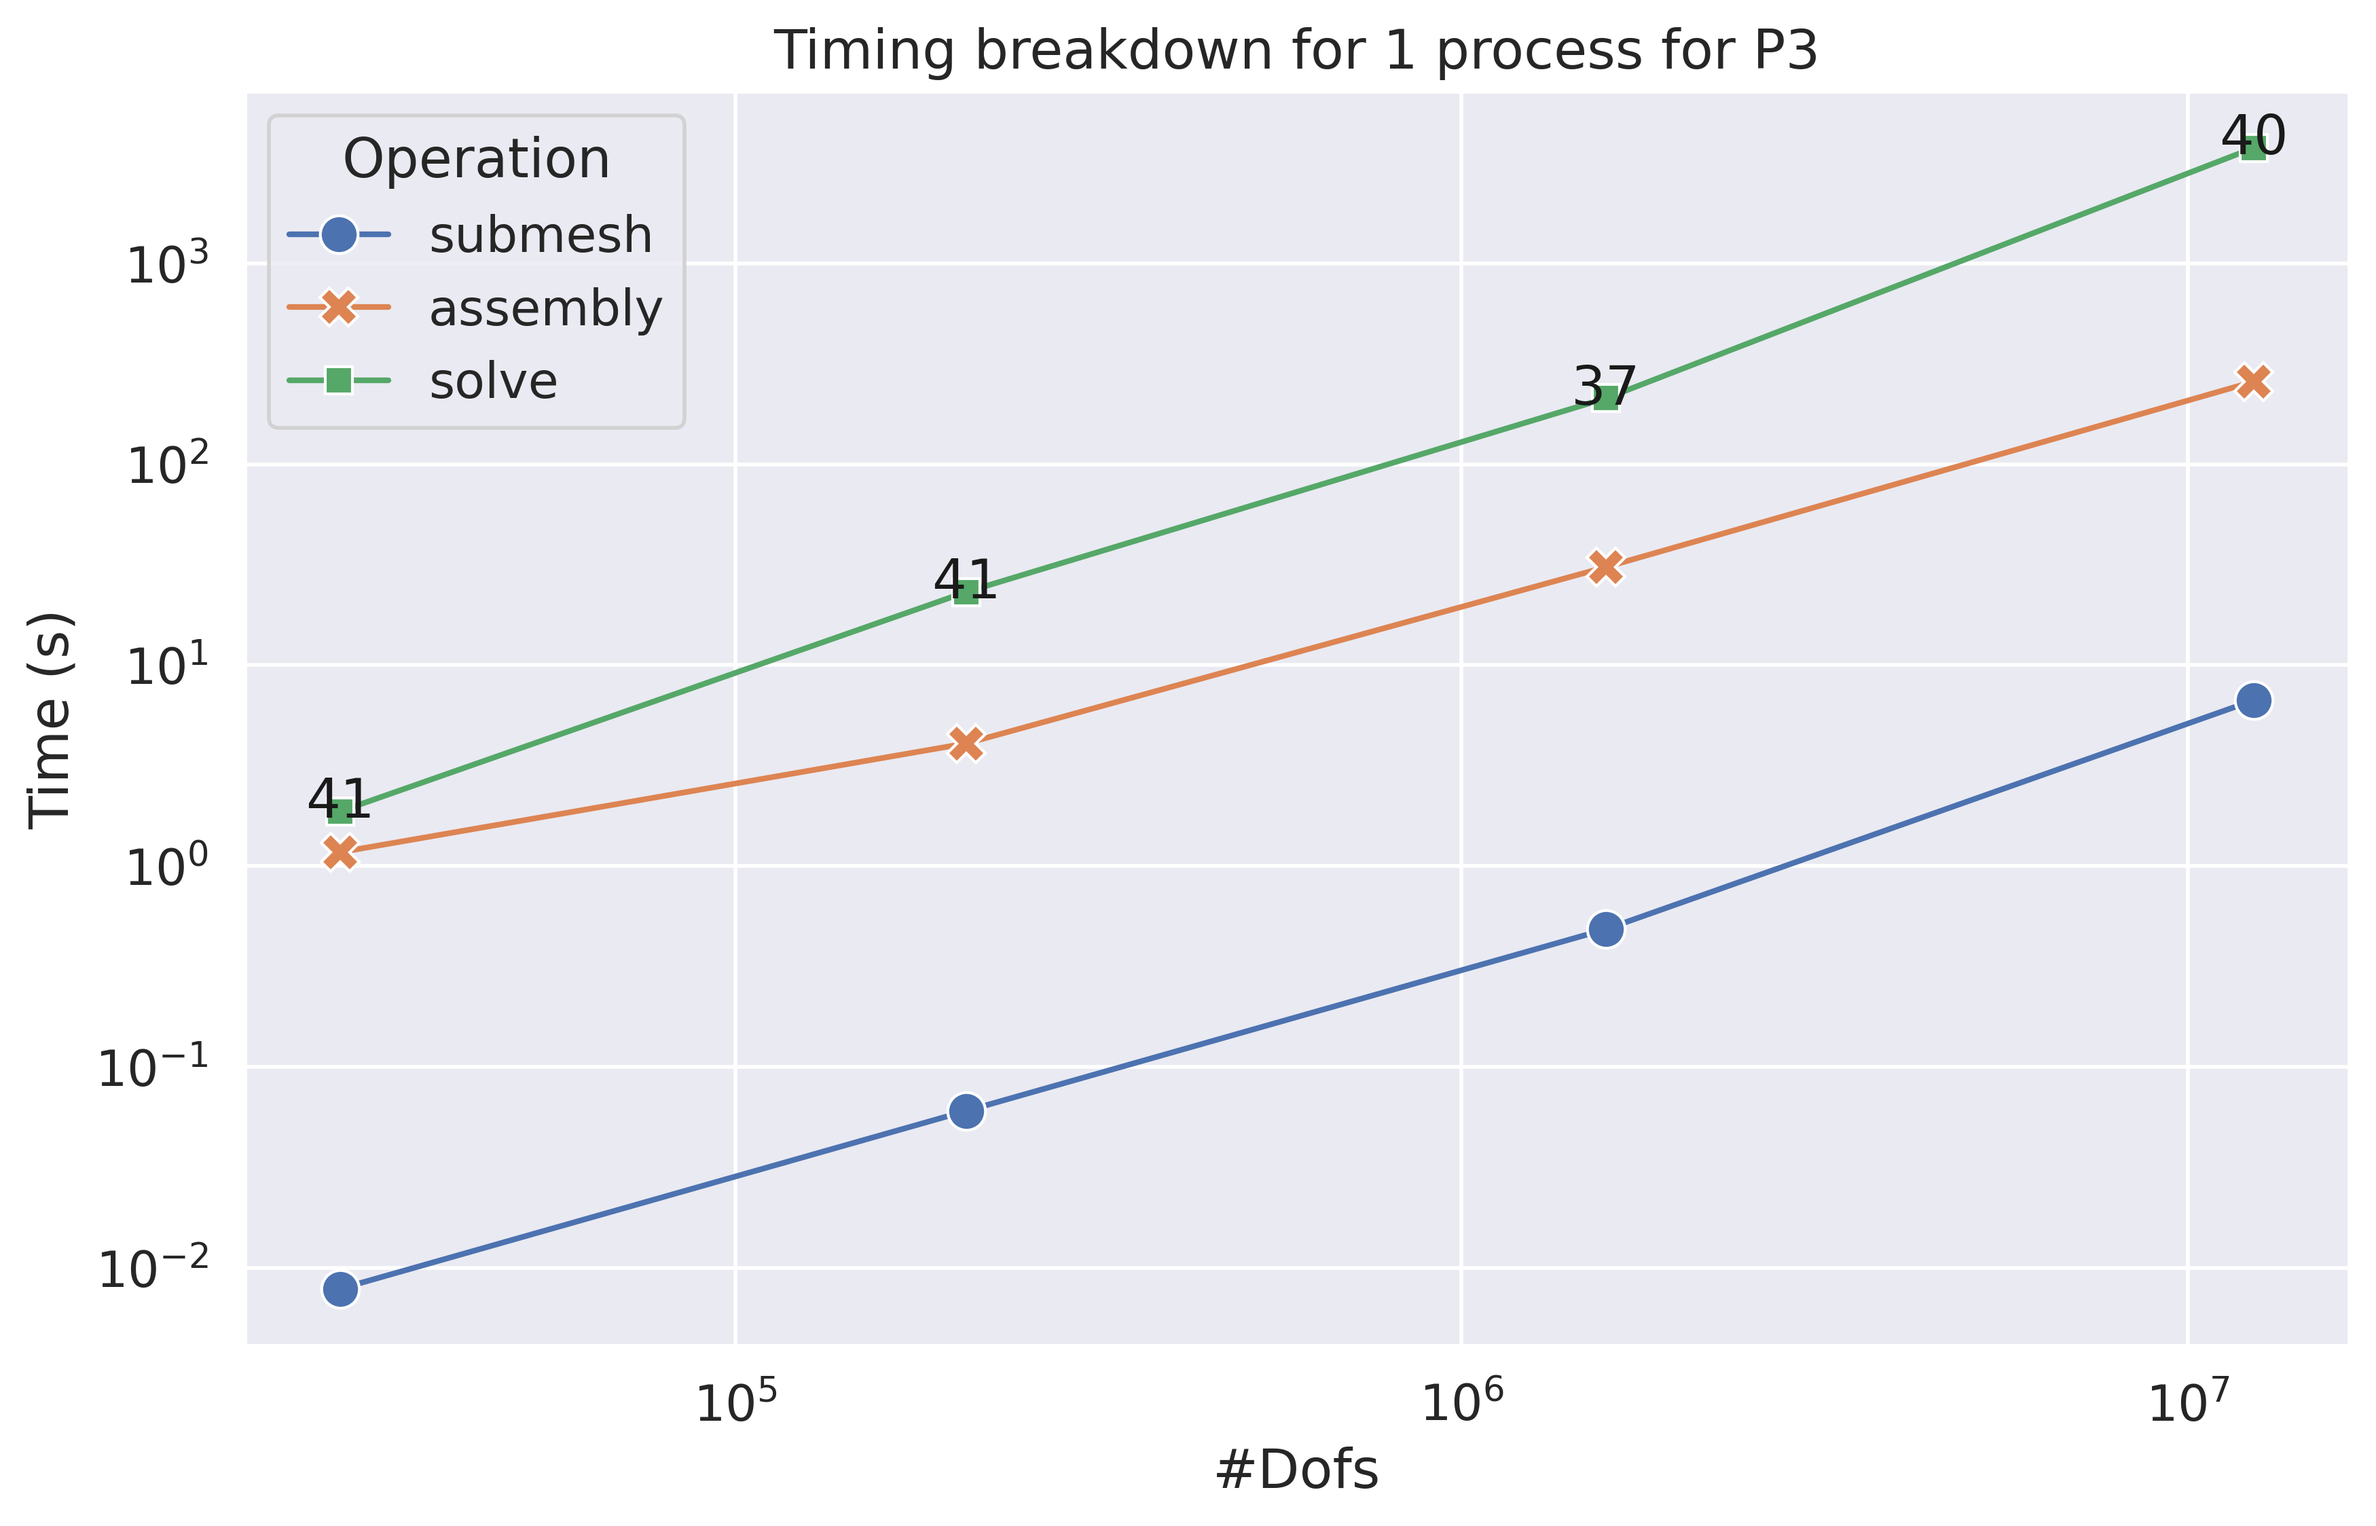
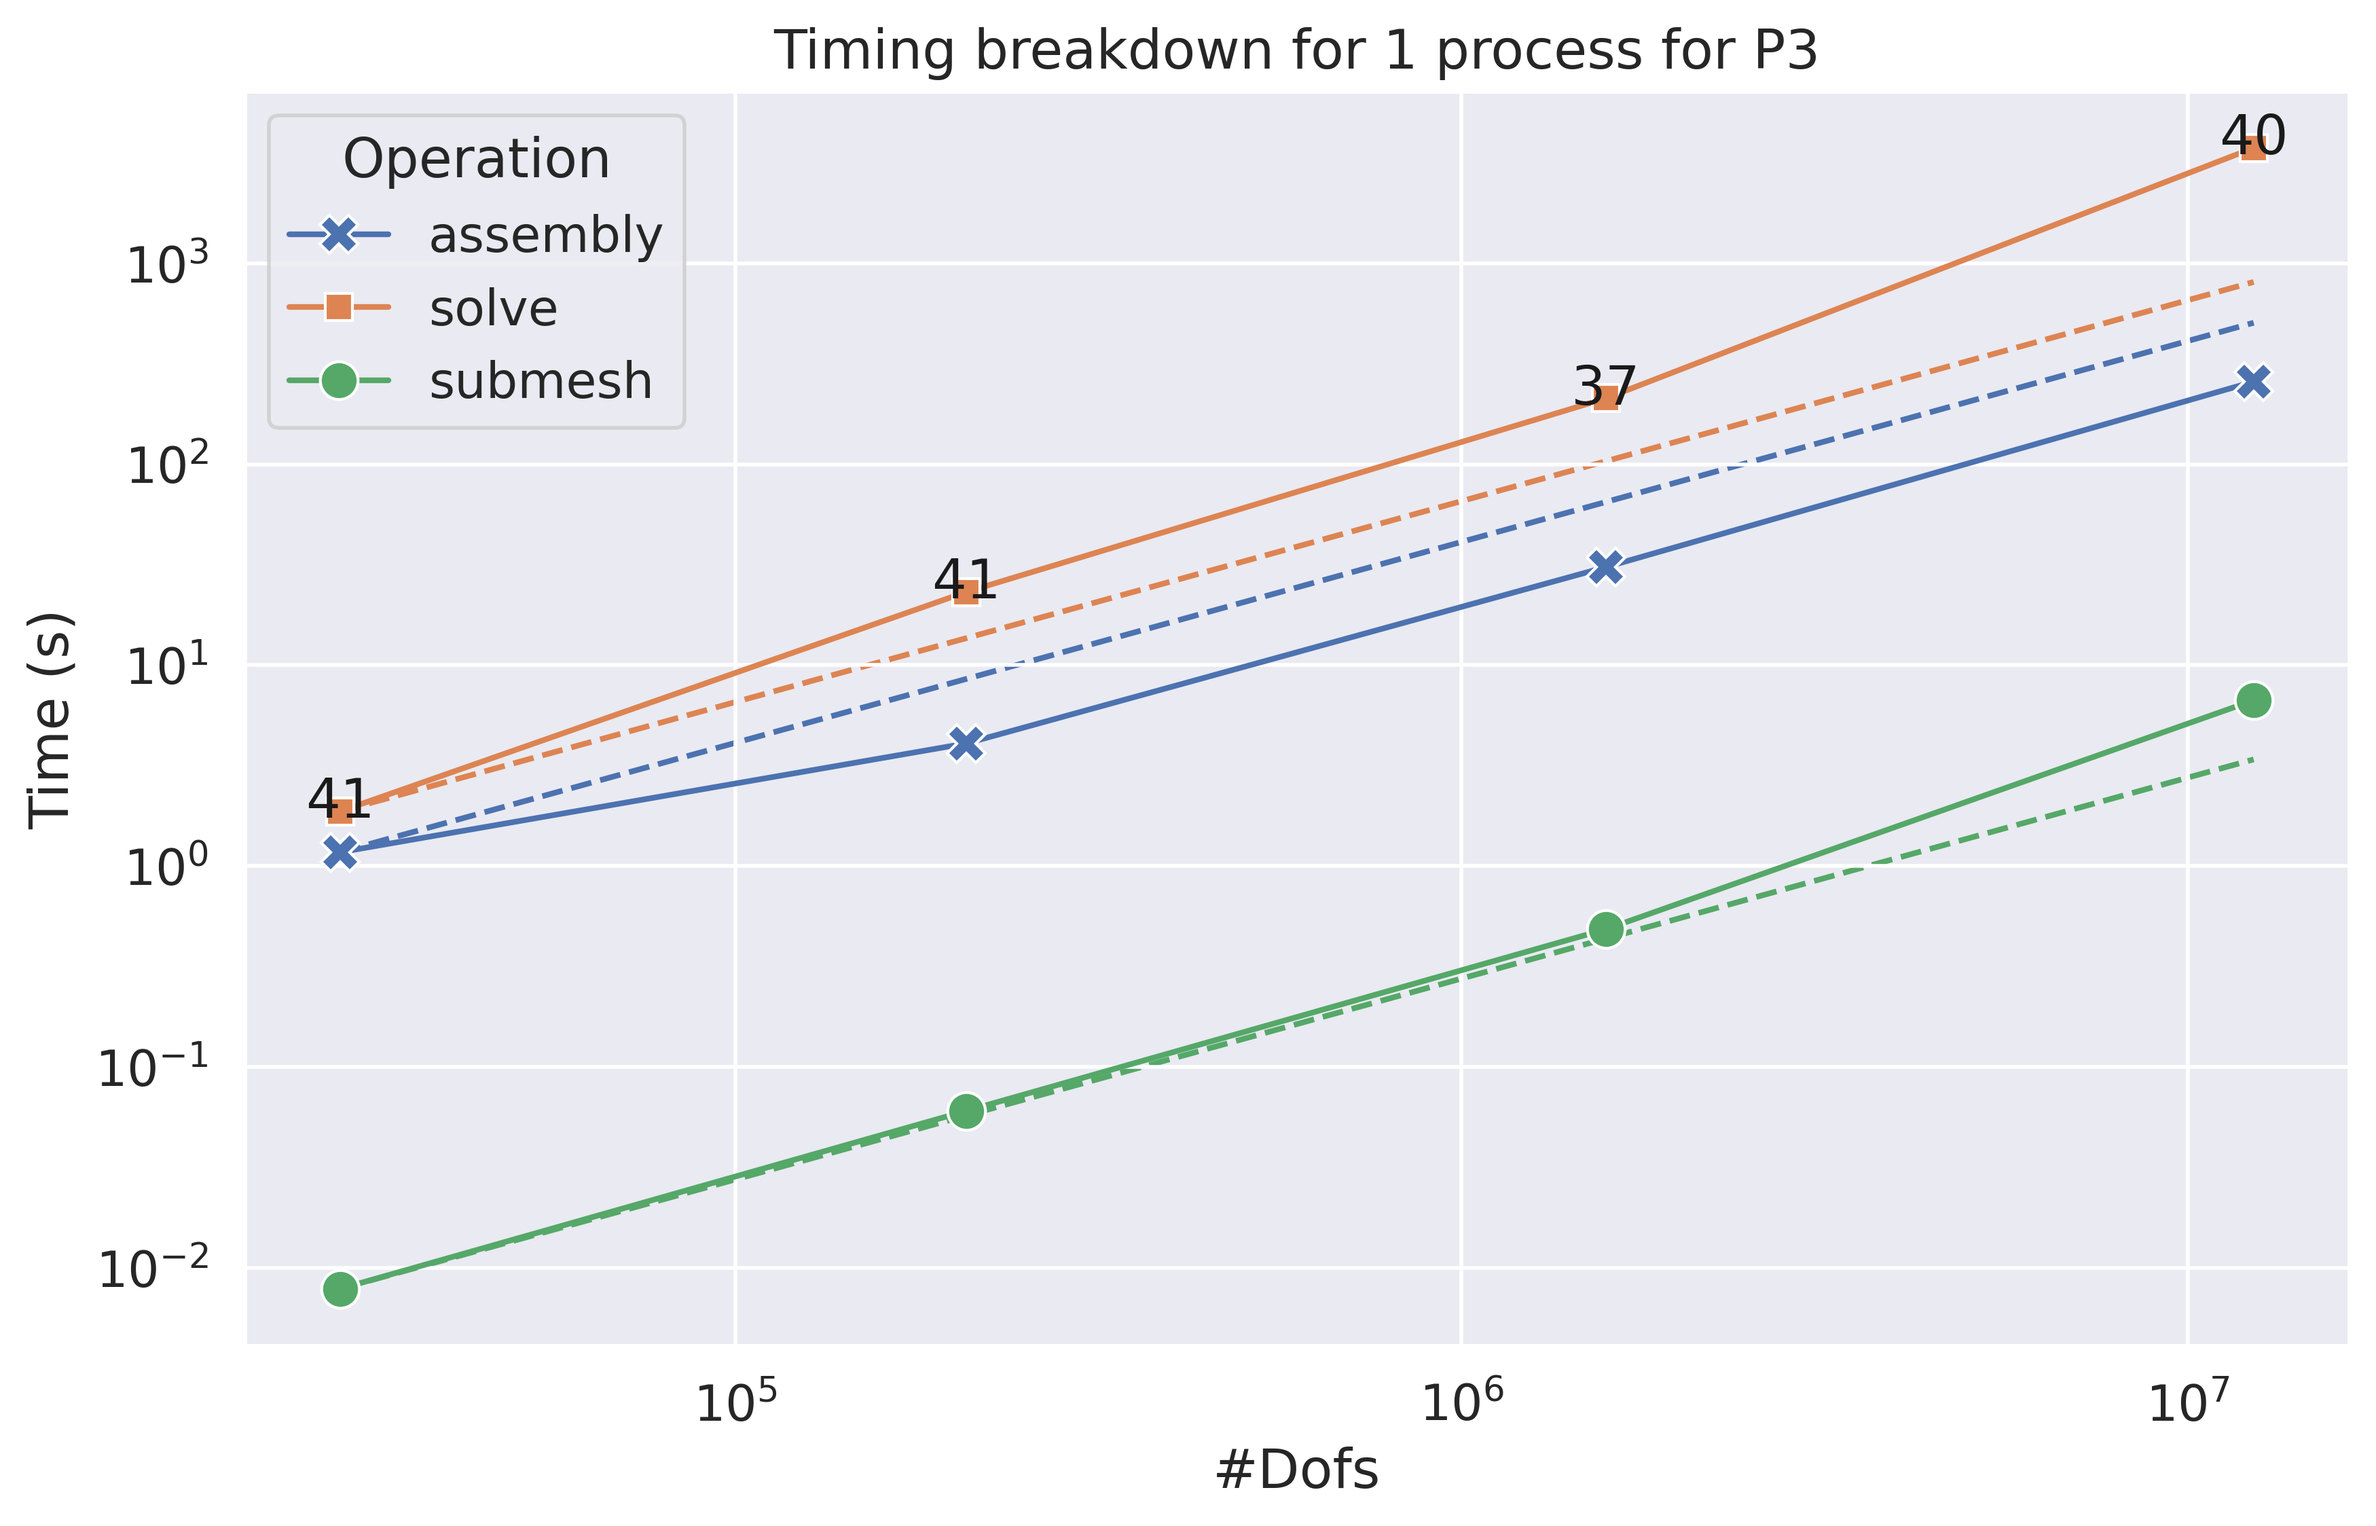
Update with optimal line

diff --git a/icosahom/code/create_figure_num_proc.py b/icosahom/code/create_figure_num_proc.py
@@ -50,17 +50,45 @@ num_dofs = np.unique(new_df["num_dofs"].array)
 assert len(num_dofs) == 1, "Expected only one number of processes in the data"
 plt.title(f"Timing breakdown for {num_dofs[0]:.2e} dofs for P{args.degree}")
 new_df = new_df[new_df["degree"] == args.degree]
+
+
+operations = np.unique(new_df["Operation"].array)
+
 seaborn.lineplot(
     new_df,
     x="Num processes",
     y="Time (s)",
     hue="Operation",
+    hue_order=operations,
     ax=ax,
     style="Operation",
     markers=True,
     dashes=False,
     markersize=10,
 )
+
+
+proc_counts = np.unique(new_df["Num processes"].array).astype(np.int64)
+operations = np.unique(new_df["Operation"].array)
+for i, operation in enumerate(operations):
+    filtered_op = new_df[new_df["Operation"] == operation]
+    op_procs = filtered_op["Num processes"].astype(np.int64)
+    ref_time = filtered_op[filtered_op["Num processes"] == str(np.min(op_procs))][
+        "Time (s)"
+    ]
+    ref_line = np.array(
+        [ref_time * 1 / (proc / np.min(op_procs)) for proc in proc_counts]
+    )
+    arg_sort = np.argsort(proc_counts)
+    ax.plot(
+        proc_counts[arg_sort].astype(str),
+        ref_line[arg_sort],
+        label=f"{operation} reference",
+        linestyle="--",
+        color=seaborn.color_palette()[i],
+        zorder=0,
+    )
+
 for pos, row in new_df.iterrows():
     if row["Operation"] == "solve":
         ax.annotate(

diff --git a/icosahom/code/create_figure.py b/icosahom/code/create_figure.py
@@ -51,11 +51,15 @@ assert len(num_processes) == 1, "Expected only one number of processes in the da
 new_df = new_df[new_df["degree"] == args.degree]
 plt.title(f"Timing breakdown for {num_processes[0]} process for P{args.degree}")
 
+
+operations = np.unique(new_df["Operation"].array)
+
 seaborn.lineplot(
     new_df,
     x="#Dofs",
     y="Time (s)",
     hue="Operation",
+    hue_order=operations,
     ax=ax,
     style="Operation",
     markers=True,
@@ -64,6 +68,22 @@ seaborn.lineplot(
     zorder=1,
 )
 
+dof_counts = np.unique(new_df["#Dofs"].array)
+operations = np.unique(new_df["Operation"].array)
+for i, operation in enumerate(operations):
+    filtered_op = new_df[new_df["Operation"] == operation]
+    op_dofs = filtered_op["#Dofs"]
+    ref_time = filtered_op[filtered_op["#Dofs"] == np.min(op_dofs)]["Time (s)"]
+    ref_line = np.array([ref_time * (dof / np.min(op_dofs)) for dof in dof_counts])
+    arg_sort = np.argsort(dof_counts)
+    ax.plot(
+        dof_counts[arg_sort],
+        ref_line[arg_sort],
+        label=f"{operation} reference",
+        linestyle="--",
+        color=seaborn.color_palette()[i],
+        zorder=0,
+    )
 for pos, row in new_df.iterrows():
     if row["Operation"] == "solve":
         ax.annotate(
